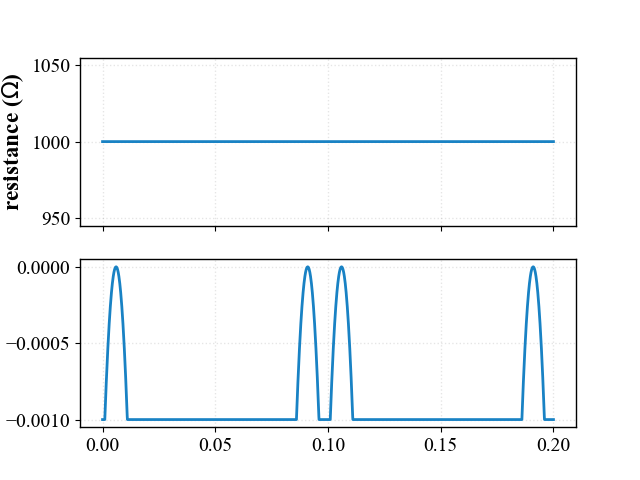
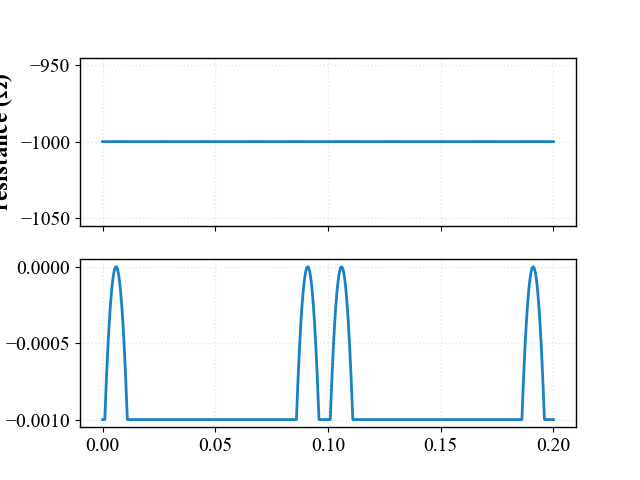
REMOVE: Component section irrelevant

Changed region(s): [[0.0, 0.1562, 0.0625, 0.4375], [0.0312, 0.4375, 0.125, 0.4688], [0.0312, 0.125, 0.125, 0.1562]]

diff --git a/docs/examples/04_spice_cosimulation/04_spice_cosimulation.py b/docs/examples/04_spice_cosimulation/04_spice_cosimulation.py
@@ -497,8 +497,7 @@ transient_simulation_results["power(xtop.vpulse)"] = (
     * transient_simulation_results["i(v.xtop.vvpulse)"]
 )
 transient_simulation_results["resistance(xtop.vpulse)"] = np.round(
-    0
-    - transient_simulation_results["v(xtop.vpulse_p)"]
+    transient_simulation_results["v(xtop.vpulse_p)"]
     / transient_simulation_results["i(v.xtop.vvpulse)"]
 )
 transient_simulation_results
@@ -546,7 +545,24 @@ simple_transient_plot_power_resistance.savefig(
 
 # ![simple_transient_plot_power_resistance](../../_static/img/examples/04_spice_cosimulation/simple_transient_plot_power_resistance.PNG)
 
-# A full visualisation of the signal is:
+# So, we have extracted the power consumption throughout time for pulses we have configured. For the whole period of the simulation, we can extract the energy consumed as the integral of power for a time differential. Note that we expect the energy consumption of this particular circuit, where the resistor is constantly drawing current, to be constantly increasing in time. We can perform a cumulative sum over our `power(xtop.vpulse)` dataframe which is a discrete integral, and we can multiply that term with the time value to determine the total energy consumption at a point in time.
+
+transient_simulation_results["energy_consumed(xtop.vpulse)"] = (
+    transient_simulation_results["power(xtop.vpulse)"].cumsum()
+    * transient_simulation_results["time"]
+)
+transient_simulation_results
+
+simple_energy_consumed_plot = transient_simulation_results.plot(
+    x="time", y="energy_consumed(xtop.vpulse)"
+)
+simple_energy_consumed_plot.get_figure().savefig(
+    "../../_static/img/examples/04_spice_cosimulation/simple_energy_consumed_plot.PNG"
+)
+
+# ![simple_energy_consumed_plot](../../_static/img/examples/04_spice_cosimulation/simple_energy_consumed_plot.PNG)
+
+# A full visualisation of the signal is including the cumulative energy use:
 
 simple_transient_plot_full = piel.visual.plot_simple_multi_row(
     data=transient_simulation_results,
@@ -556,8 +572,9 @@ simple_transient_plot_full = piel.visual.plot_simple_multi_row(
         "i(v.xtop.vvpulse)",
         "resistance(xtop.vpulse)",
         "power(xtop.vpulse)",
+        "energy_consumed(xtop.vpulse)",
     ],
-    y_axis_title_list=[r"$V$", r"$A$", r"$\Omega$", r"$W$"],
+    y_axis_title_list=[r"$V$", r"$A$", r"$\Omega$", r"$W$", r"$J$"],
 )
 simple_transient_plot_full.savefig(
     "../../_static/img/examples/04_spice_cosimulation/simple_transient_plot_full.PNG"
@@ -565,6 +582,6 @@ simple_transient_plot_full.savefig(
 
 # ![simple_transient_plot_full](../../_static/img/examples/04_spice_cosimulation/simple_transient_plot_full.PNG)
 
-# #### Automation
-
-# Now, these transient simulations are something you might want to very configure depending on the type of signals that you might want to verify. However, we can provide some basic parameterised simple functions such as step responses and so on. So instead of having to write everything above, you can also just run the following, for example: WIP
+# ### Driving our Phase Shifter
+#
+# We have demonstrated how we can extract a simple model of a resistor and create different types of `SPICE` simulations. Now, let's consider how would this affect the photonic performance in a phase-shifter context. One important aspect is that we need to create a mapping between our analogue voltage and a phase. Ideally, this should be a functional mapping.

diff --git a/docs/examples/06_component_codesign_basics.py b/docs/examples/06_component_codesign_basics.py
@@ -1,0 +1,5 @@
+# # Component Codesign Basics
+
+# When we have photonic components driven by electronic devices, there is a scope that we might want to optimise certain devices to be faster, smaller, or less power-consumptive. It can be complicated to do this just analytically, so we would like to have the capability of integrating our design software for each of our devices with our simulation software of our electronics. There might be multiple  software tools to design different devices, and the benefit of integrating these tools via open-source is that co-design becomes much more feasible and meaningful.
+#
+# In this example, we will continue exploring the co-design of a thermo-optic phase shifter in continuation of all the previous examples. However, this time, we will perform some optimisation in its design parameters and related. We will use the `femwell` and `devsim` packages that are part of the `GDSFactory` suite.

diff --git a/docs/examples/04a_mixed_signal_photonic_cosimulation.py b/docs/examples/04a_mixed_signal_photonic_cosimulation.py
@@ -1,4 +1,8 @@
-# # Mixed-Signal & Photonic Power Consumption Calculation
+# # Mixed-Signal & Photonic Cosimulation
+
+# #### Automation
+
+# Now, these transient simulations are something you might want to very configure depending on the type of signals that you might want to verify. However, we can provide some basic parameterised simple functions such as step responses and so on. So instead of having to write everything above, you can also just run the following, for example: WIP
 
 # One desired output of an electrical model simulation is an extraction of the power consumption of the circuit. Fundamentally, this is dependent on the time and the operation performed. Hence, to estimate an average power consumption, it is more effective to define the power consumption of a particular operation, and extract the power consumption for the frequency at which this operation is performed.
 #

diff --git a/piel/__init__.py b/piel/__init__.py
@@ -3,7 +3,6 @@ import os
 import pathlib
 
 # Libraries
-from piel import components  # NOQA: F401
 from piel import models  # NOQA: F401
 from piel import visual  # NOQA: F401
 

diff --git a/docs/sections/codesign/principles/fundamentals.rst b/docs/sections/codesign/principles/fundamentals.rst
@@ -20,7 +20,10 @@ There are some important definitions we must account for in terms of analysing t
      - :math:`1A` amp defines the movement of the above :math:`1C` Coulomb of charge flows in :math:`1s` second.
    * - Power :math:`W`
      - For a differential of time, this is the rate energy consumed for that slice of time.
-     - :math:`1W = VI` Watt defines the rate of energy flow of the above :math:`1J` Joule in :math:`1s` second.
+     - :math:`W = VI` Watt defines the rate of energy flow of the above :math:`1J` Joule in :math:`1s` second.
+   * - Energy :math:`J`
+     - Applied power throughout a slice of time.
+     - :math:`J = Ws` Joule is equal to :math:`1W` Watt of power flowing throughout :math:`1s` second.
 
 
-Currents occur by placing a voltage through a device, and the rate of the current, hence the rate of the power consumption is dependent on the channel *impedance*.
+Currents occur by placing a voltage through a device, and the rate of the current, hence the rate of the power consumption is dependent on the channel *impedance*. Now, this has an important effect on microwave engineering and system design.

diff --git a/docs/examples.rst b/docs/examples.rst
@@ -14,5 +14,6 @@ Examples
    examples/03_sax_basics
    examples/03a_sax_cocotb_cosimulation
    examples//04_spice_cosimulation/04_spice_cosimulation
-   examples/04a_power_consumption_estimation
+   examples/04a_mixed_signal_photonic_cosimulation
    examples/05_quantum_integration_basics
+   examples/06_component_codesign_basics

diff --git a/docs/index.rst b/docs/index.rst
@@ -13,7 +13,6 @@ Contents
    sections/environment/index
    sections/microservices/index
    sections/codesign/index
-   sections/components/index
    sections/models/index
    contributing
    sections/about/index
